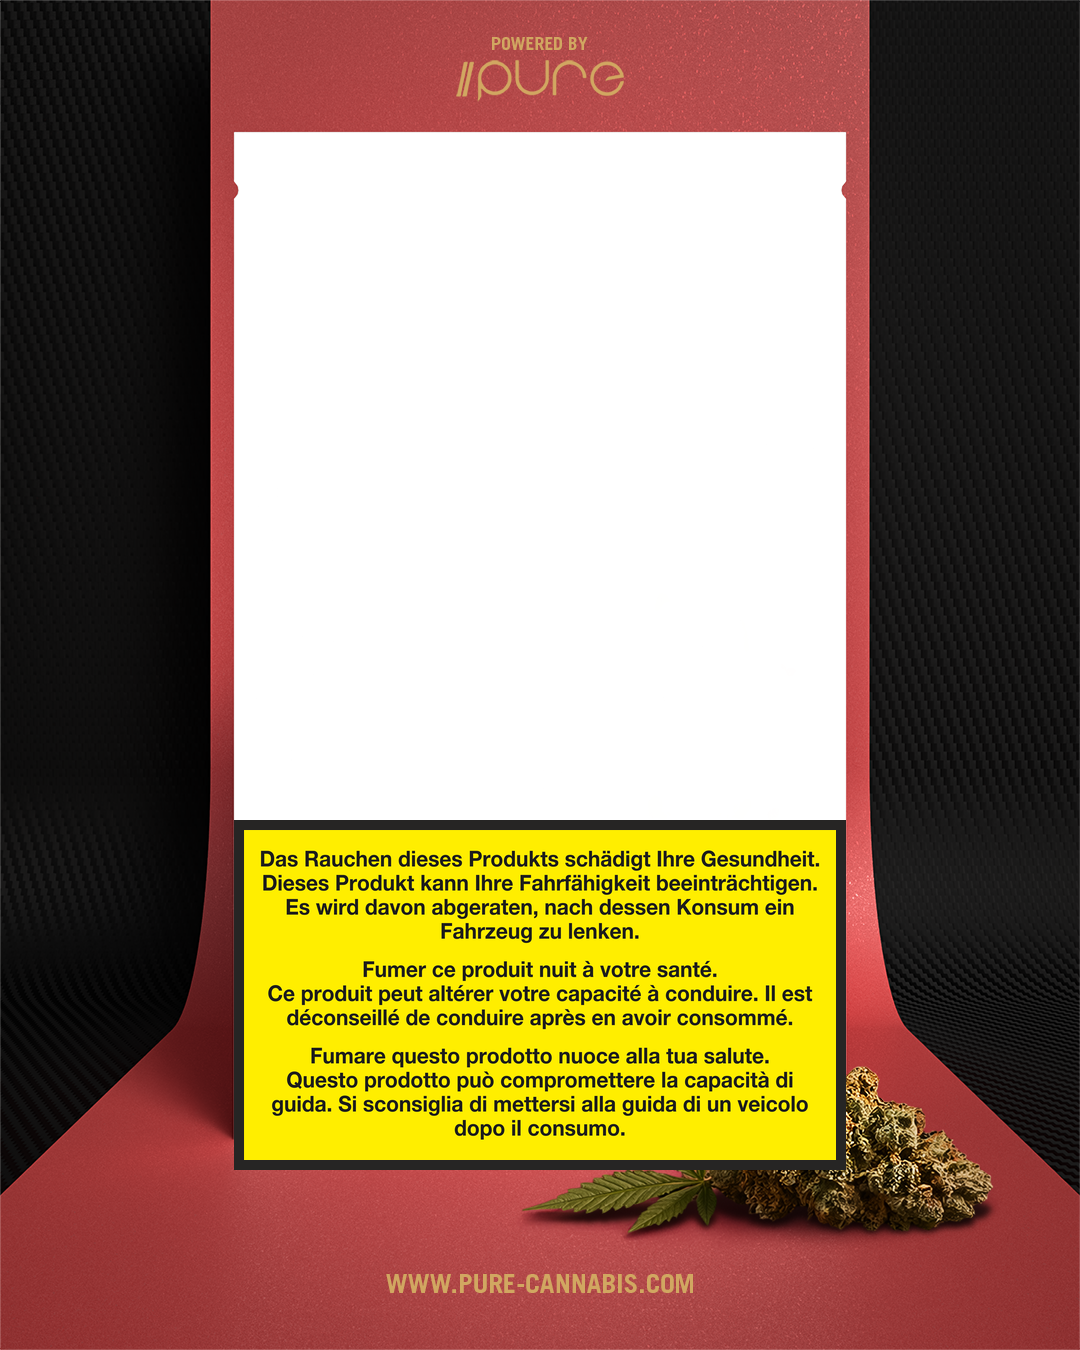
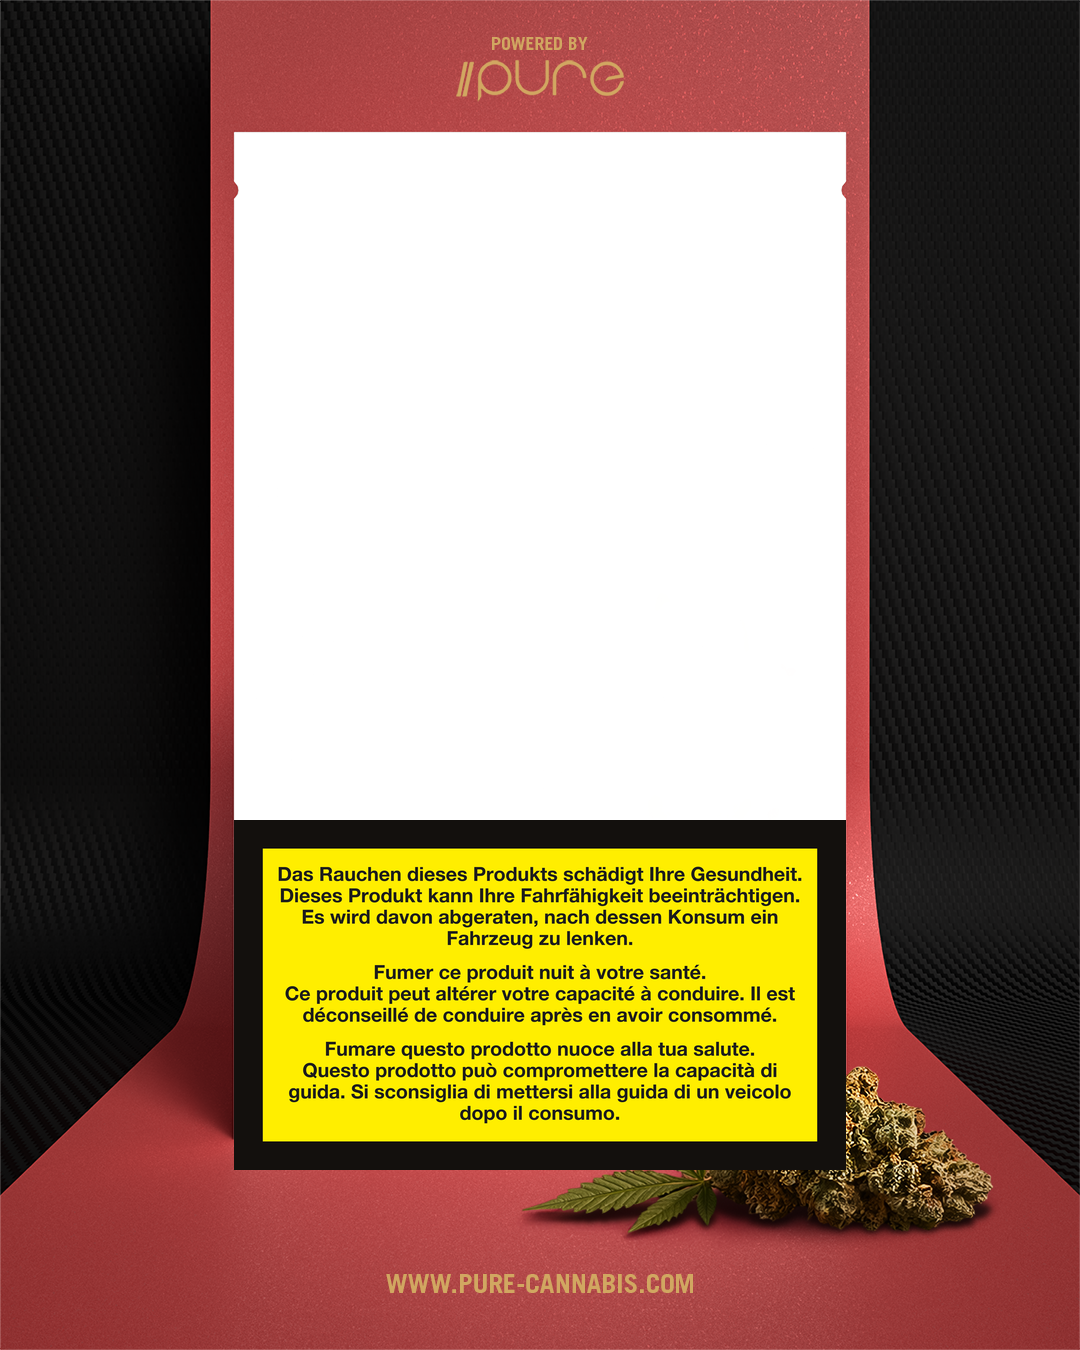
composite v9: thicker warning frame + bigger sharper badges
User feedback:
- the grey-black frame around the warning was too thin; the source
  Warning.png ships with a 506px dark frame around 9756px of yellow
  → just resize the full source 1:1 onto the 612×350 slot, which
  yields the source's natural ~29px frame thickness
- the three brand badges at the top of the pouch were too small and
  not crisp enough → bump BADGE_SIZE from 72 to 110, tighten margins
  so the row reads at the same scale as the brand reference

Changed region(s): [[0.2139, 0.5911, 0.7944, 0.8711]]

diff --git a/scripts/build_assets.py b/scripts/build_assets.py
@@ -38,20 +38,14 @@ _WARN_CONTENT_BBOX = (506, 506, 10262, 5701)
 
 
 def build_warning() -> Image.Image:
-    """Crop the yellow content from the source warning, resize it slightly
-    smaller than the final slot, then wrap it in a dark frame matching the
-    pouche reference design.
+    """Resize the full source Warning.png onto the final 612×350 slot.
 
-    Final asset is 612×344 with a 10px dark border around 592×324 of yellow."""
-    border = 10
-    dark_frame_color = (38, 37, 36, 255)  # sampled from Pouche reference at y=1300
-
+    The source ships with a uniform 506px dark frame around the yellow
+    content. Resizing the whole image 1:1 onto the target preserves that
+    frame's proportional thickness (~29px in the output) — exactly the
+    border thickness the brand template uses."""
     src = Image.open(SRC_WARNING_PNG).convert("RGBA")
-    cropped = src.crop(_WARN_CONTENT_BBOX)
-    inner = cropped.resize((WARN_W - 2 * border, WARN_H - 2 * border), Image.LANCZOS)
-
-    warn = Image.new("RGBA", (WARN_W, WARN_H), dark_frame_color)
-    warn.paste(inner, (border, border))
+    warn = src.resize((WARN_W, WARN_H), Image.LANCZOS)
     warn.save(ASSETS / "warning.png", format="PNG", optimize=True)
     return warn
 

diff --git a/lib/composite.py b/lib/composite.py
@@ -28,9 +28,9 @@ WARNING_PATH = ASSETS_DIR / "warning.png"
 BUD_PATH = ASSETS_DIR / "bud_overlay.png"
 LABELS_DIR = ASSETS_DIR / "labels"
 
-BADGE_SIZE = 72
-BADGE_Y = 28
-BADGE_INNER_MARGIN = 36
+BADGE_SIZE = 110
+BADGE_Y = 30
+BADGE_INNER_MARGIN = 32
 
 
 def _trim_near_white_border(img: Image.Image, threshold: int = 245) -> Image.Image:
